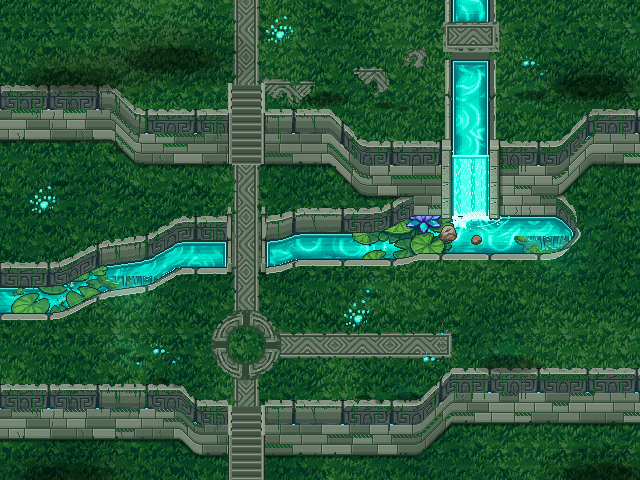
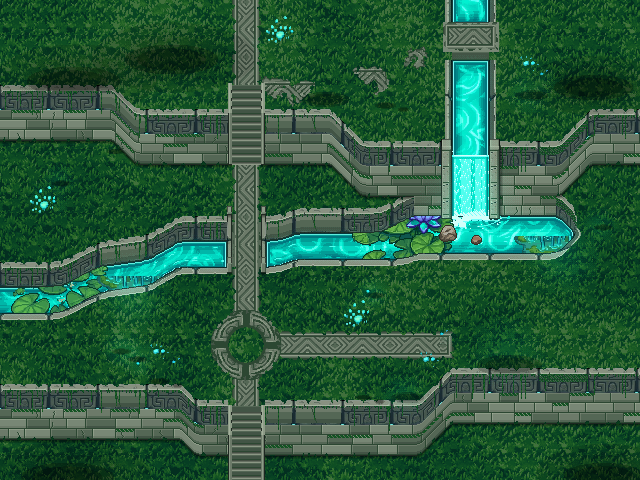
Ruscello: la corrente nel tratto stretto
Nel ruscello stretto qualche increspatura allungata segue il filo
dell'acqua verso ovest, lontana dalle sponde e dal ponte: la pozza resta
ferma, il ruscello scorre.

Claude-Session: https://claude.ai/code/session_01AE7uzpDH1Lo1PHb29aXJxZ

diff --git a/strumenti/livelli/ruscello_radenna.py b/strumenti/livelli/ruscello_radenna.py
@@ -665,7 +665,24 @@ def disegna(t, seme=3):
         yy, xx = int(rng.integers(0, H)), int(rng.integers(0, W))
         if acq[yy, xx] and sotto[yy, xx] > 6:
             img[yy, xx] = AQ[9]
-    # le cimase di pietra lungo i cigli, le sponde di qua e quelle di lato
+    # nel ruscello stretto la corrente: increspature allungate che seguono il filo dell'acqua verso ovest
+    centro = np.full(W, np.nan)
+    for x in range(0, 412):
+        r = np.nonzero(acq[200:340, x])[0]
+        if len(r) > 8:
+            centro[x] = 200 + r.mean()
+    for k in range(26):
+        x0 = int(rng.integers(6, 408))
+        if np.isnan(centro[x0]):
+            continue
+        y0 = int(round(centro[x0] + rng.uniform(-9, 9))); L = int(rng.integers(4, 9))
+        for i in range(L):
+            x = x0 + i
+            if x >= W or np.isnan(centro[x]):
+                break
+            y = int(round(y0 + centro[x] - centro[x0]))
+            if acq[y, x] and du[y, x] >= 7 and dd[y, x] >= 5 and min(dl[y, x], dr[y, x]) >= 4:
+                img[y, x] = AQ[7] if 0 < i < L - 1 else AQ[6]
     terra = (tipo == 1) & (Mb == ERBA)
     cigli = []
     for x in range(W):
